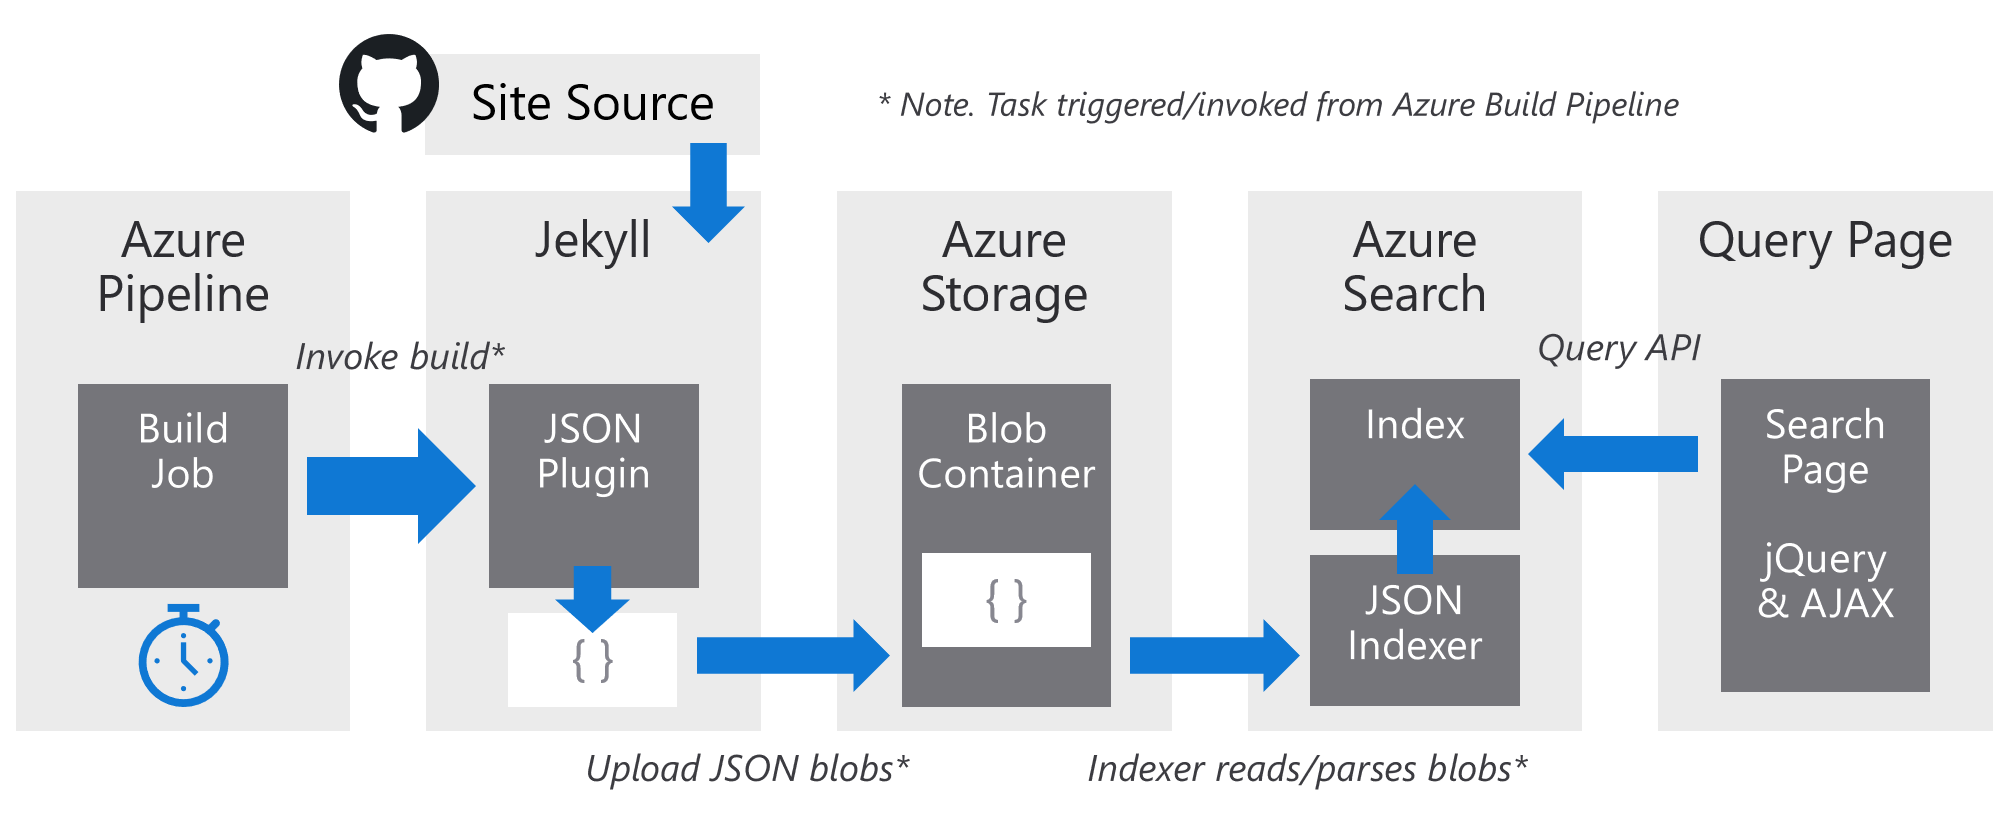
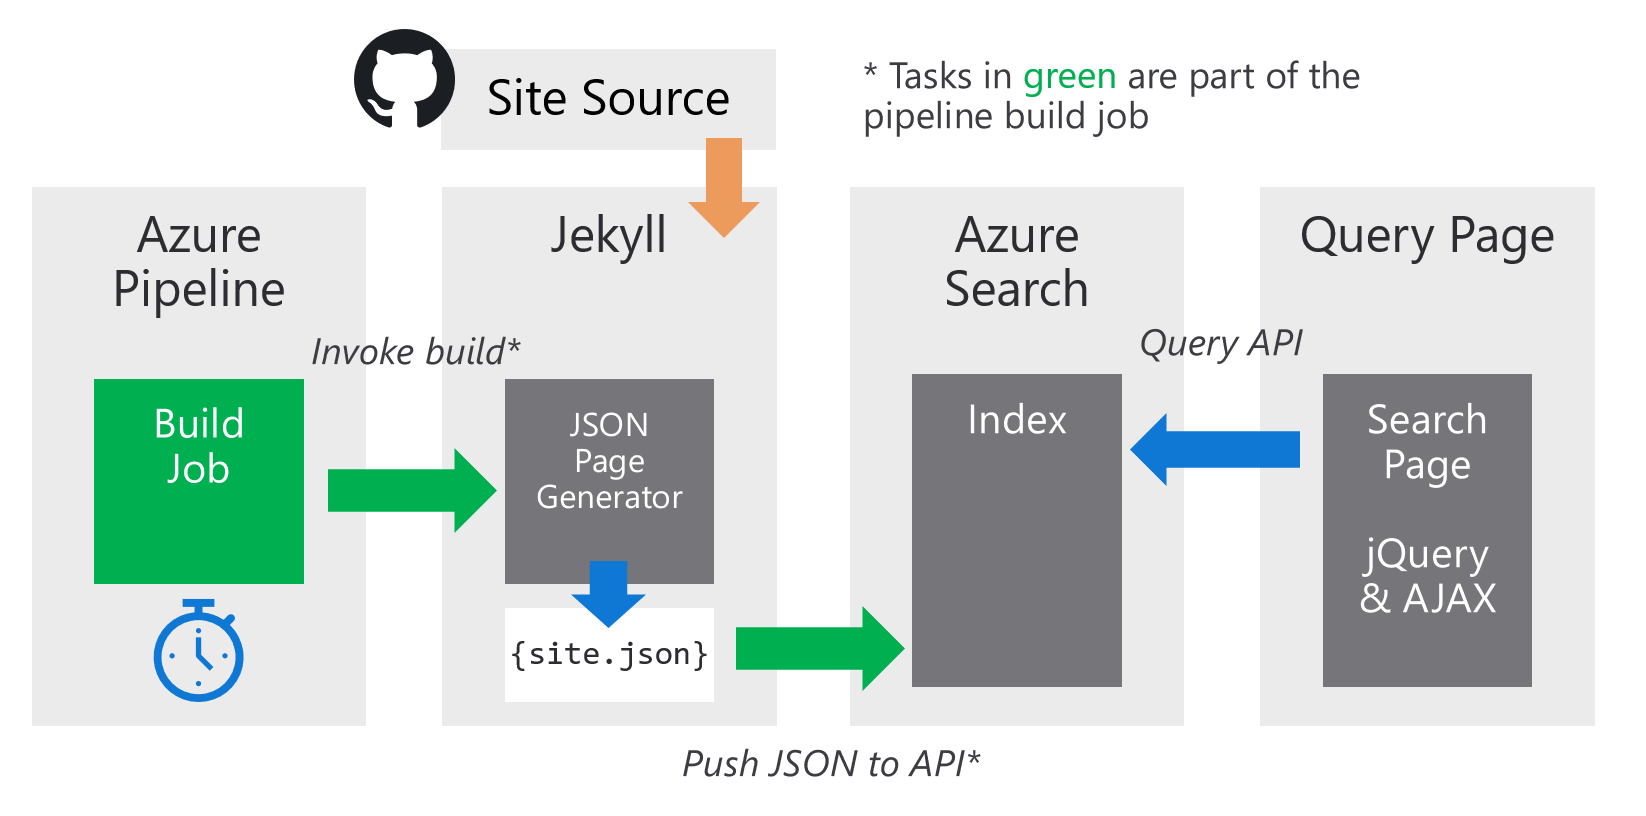
Updated search AGAIN!

diff --git a/data-ai/azure-search-integration.md b/data-ai/azure-search-integration.md
@@ -22,7 +22,6 @@ Using Azure Search with a static site like [Jekyll](https://jekyllrb.com/) prese
 The solution consists of five main elements:
 - Jekyll plugin which outputs JSON
 - Azure Pipeline for automation of re-indexing
-- Azure blob storage
 - Azure Search service
 - Search page 'client' written in jQuery & HTML5
 
@@ -32,77 +31,61 @@ The data flow and interaction between the components is as follows
 ![Overall solution flow](arch.png)
 
 
-# Jekyll JSON Plugin
-First part of the integration requires a way to output the site as JSON documents, so they can be read by Azure Search. The answer was to find a [Jekyll Generator plugin](https://jekyllrb.com/docs/plugins/generators/) that could output JSON. There were several code snippets of Jekyll plugins that would generate JSON, but most were out of date or simply didn't work. A close to working solution was [found here as a Gist](https://https://gist.github.com/egardner/b6bd5d785048ec2d0b2b). This required modification to work with pages rather than posts, to run on the correct subset of pages on the site and also output the JSON with specific fields
+# Site JSON Generation 
+A Liquid template page was created to output the site as a single JSON document, this page resides in `_pages/site.json` with a permalink set to `/site.json` so it outputs to the root of the site. It loops over all pages in the site when the Jekyll build is run. The resulting JSON object is an array of documents in a format ready for Azure Search index to consume. See [Azure Search documentation on the required format of the data](https://docs.microsoft.com/en-us/azure/search/search-import-data-rest-api#request-body)
 
-The core generate function looks as follows:
-```ruby
-def generate(site)
-  site.pages.each do |page|
-    # Set the path to the JSON version of the page
-    dest = site.config['destination']
+- The `id` field is created from the page URL (which is unique) and Base64 encoded to remove any strange characters
+- The other fields are taken from the page object directly
+- The content is placed in a field called `content_md`
+- `@search.action` field is an instruction to Azure Search
 
-    # Only work with our markdown content, not index pages and others
-    unless page.name.end_with? ".md"
-      next
-    end
-
-    # Munge the destination to .json
-    path = page.destination(dest)
-    path["#{dest}/"] = ''
-    path['/index.html'] = '.json'
-
-    # Convert the page to a hash
-    output = page.to_liquid
-
-    # Prepare the output for JSON conversion
-    ['dir', 'layout', 'path'].each do |key|
-      output.delete(key)
-    end
-
-    # Default field for content was 'content', this trips up Azure Search
-    # So put generated HTML in content_html and source Markdown in content_md
-    output['content_html'] = page.transform
-    output['content_md'] = output.delete('content')
-
-    # Queue up for generation
-    site.pages << JSONPage.new(site, site.source, File.dirname(path), File.basename(path), output.to_json)
-  end
-end
+The source of `_pages/site.json`
+```markdown
+---
+layout: null
+permalink: /site.json
+---
+{% assign content_pages = site.pages | where_exp: "p", "p.path contains '.md'" %}
+{ 
+  "value": [
+    {% for page in content_pages %}
+    {
+      "@search.action": "mergeOrUpload",
+      "id":      "{{ page.url | base64_encode }}",
+      "author":  "{{ page.author | join: ', ' }}",
+      "tags":    "{{ page.tags | join: ', ' }}",
+      "title":   "{{ page.title }}",
+      "teaser":  "{{ page.header.teaser }}",
+      "url":     "{{ page.url }}",
+      "excerpt": "{{ page.excerpt }}",
+      "date":    "{{ page.date | date: "%Y-%m-%d" }}",
+      "content_md": {{ page.content | jsonify }}
+    }{% if forloop.last %}{% else %},{% endif %}
+    {% endfor %}
+    ]
+}
 ```
 
-The [full source of the plugin is here on GitHub](https://github.com/azurecitadel/azurecitadel.github.io/blob/master/_plugins/json-generate.rb). This is placed as a single Ruby file into the sites `_plugins` directory
+Here's an example of one element (page) in the array
 
-This plugin is invoked when running a build of the site e.g. `bundle exec jekyll build` and results in `index.json` files being created alongside each of the `index.html` pages. In normal site operation & deployment (e.g. hosting on GitHub pages) these JSON files do nothing and are ignored. However we can build the site and upload the JSON ourselves in a custom build pipeline
-
-An example of the JSON version of a page, the HTML and markdown have been removed to save space:
 ```json
-{
-  "comments": true,
-  "share": true,
-  "toc": true,
-  "header": {
-    "teaser": "/images/teaser/blueprint.png"
-  },
-  "title": "A Very Interesting Thing",
-  "date": "2018-12-21",
-  "category": "stuff",
-  "author": "Ben Coleman",
-  "tags": [
-    "blah",
-    "thing"
-  ],
-  "excerpt": "Some words here explaining about this interesting thing",
-  "name": "example.md",
-  "url": "/stuff/example/",
-  "content_html": "<< HTML GENERATED CONTENT HERE AS A SINGLE LARGE STRING >>",
-  "content_md": "<< SOURCE MARKDOWN HERE AS A SINGLE LARGE STRING >>"
-}
+    {
+      "@search.action": "mergeOrUpload",
+      "id":      "L2F1dG9tYXRpb24vdGVycmFmb3JtL1RlcnJhZm9ybUVudGVycHJpc2Uv",
+      "author":  "Fred Blogs",
+      "tags":    "tag1, tag2",
+      "title":   "Just An Example",
+      "teaser":  "images/teaser/example.png",
+      "url":     "/stuff/example/",
+      "excerpt": "Short overview of a very boring thing that doesn't exist",
+      "date":    "2018-10-29",
+      "content_md": "<< REMOVED >>"
+    },
 ```
 
 
 # Azure Pipelines - Build & Re-index
-Although Azure Search can regularly run a scheduled re-index scan of its source data, in our case JSON blobs, we still need some process or automation for updating that source data. Azure Pipelines was used for this as it has the ability to run the Jekyll build tasks and is flexible enough to automate the other steps we need.
+To keep the index up to date and fresh, some sort of scheduled automation process was required. Azure Pipelines was used for this as it has the ability to run the Jekyll build tasks and is flexible enough to automate the other steps we need.
 
 The automation was done as a single 'Build Pipeline' in Azure Pipelines. The pipeline was defined in YAML and is shown below
 
@@ -129,20 +112,16 @@ steps:
 - script: 'bundle exec jekyll build'
   displayName: 'Run jekyll and build site'
 
-- script: 'az storage blob upload-batch -s _site -d site-json  --pattern "*.json" --account-name=$(storage-acct-name) --account-key="$(storage-acct-key)" --no-progress'
-  displayName: 'Upload JSON output to blobs for indexing'
-
-- script: 'curl -v -H "api-key: $(search-admin-key)" -d "" -X POST "https://$(search-account).search.windows.net/indexers/$(search-indexer)/run?api-version=2017-11-11"'
-  displayName: 'Call Azure Search API to run reindex'
+- script: 'curl -v -H "api-key: $(search-admin-key)" -H "Content-Type: application/json" --data-binary "@_site/site.json" -X POST "https://$(search-account).search.windows.net/indexes/$(search-index)/docs/index?api-version=2017-11-11"'
+  displayName: 'Push site.json to Azure Search'
 ```
 
 A summary of pipeline:
 - Environmental setup (Ruby and bundler)
 - Run `bundle exec jekyll build` to build the site, to default output directory `_site`
-- Use Azure CLI `az storage blob upload-batch` command to upload output JSON from `_site` to a storage account into a blob container called `site-json`
-- Call on the Azure Search indexer to run a re-index, using the Azure Search REST API (using curl)
+- Using curl, call the Azure Search REST API and push our JSON results (site.json) as a single POST
 
-Secrets and other variables are held in Azure Pipelines as a variable group called `citadel-shared-vars`. This variable group was created and pre-populated using the Azure DevOps Portal, so that no secrets or other variable settings needed to be hardcoded into the pipeline. Secrets include `$(storage-acct-key)` and `$(search-admin-key)`
+Secrets and other variables are held in Azure Pipelines as a variable group called `citadel-shared-vars`. This variable group was created and pre-populated using the Azure DevOps Portal, so that no secrets or other variable settings needed to be hardcoded into the pipeline.
 
 The pipeline runs on a schedule every 24 hours (and not not on repo pushes/commits as many build pipelines would) and the definition YAML stored in the Git repo that contains the site
 
@@ -158,67 +137,15 @@ To assist using the API with Postman, the following can be used:
 
 Simply import into Postman and configure the variables in 'Azure Search' environment
 
-There are three main parts that require configuration and creation: **data source**, **indexer** and the **index**
-
-## Azure Search - Data Source
-This was pointed the Azure Storage account using a connection string, and the blob container named `site-json` used (same as the configuration of the 'Upload JSON' pipeline task)
-
-Example data source JSON:
-```json
-{
-	"name": "citadel-site-json",
-	"type": "azureblob",
-	"credentials": {
-	    "connectionString": "<< YOUR CONNECTION STRING HERE >>"
-	},
-	"container": {
-	    "name": "site-json"
-	}
-}
-```
-
-## Azure Search - Indexer
-The indexer was set up to read from the above data source, the indexer runs in JSON parsing mode with both content and metadata extracted.
-
-The indexer also maps the `url` field to the `id` to use as a key and Base64 encodes it for safety.
-
-Scheduling was disabled as the re-index is invoked regularly from the pipeline. As there were are some JSON files contained in the site source these get uploaded with the upload step and currently there's no simple way to filter them out. To get around this, the `maxFailedItems` value was simply increased to allow the indexer to skip over any JSON docs it finds which aren't in the correct format.
-
-Example indexer JSON:
-```json
-{
-  "name": "citadel-indexer",
-  "dataSourceName": "citadel-site-json",
-  "targetIndexName": "citadel-index",
-  "parameters": {
-    "maxFailedItems": 20,
-    "maxFailedItemsPerBatch": 20,
-    "base64EncodeKeys": true,
-    "configuration": {
-      "dataToExtract": "contentAndMetadata",
-      "parsingMode": "json"
-    }
-  },
-  "fieldMappings": [
-    {
-      "sourceFieldName": "url",
-      "targetFieldName": "id"
-    },
-    {
-      "sourceFieldName": "url",
-      "targetFieldName": "url"
-    }        
-  ]
-}
-```
+As we call the API directly with the documents to index, we are bypassing certain features of Azure Search such as **data source** and **indexer**, all that is required to be configured is an **index**
 
 ## Azure Search - Index
-The majority of the Azure Search configuration is done on the index, this determines which fields will be extracted out of the JSON and how they are used.
+The Azure Search index determines which fields will be searchable and returned when querying, and holds the actual data (at least in index form)
 
-By default the JSON indexer will put all of the JSON parsed into a huge field called `content`, this isn't a optimal way of using the data we have, so a more refined configuration was used: 
-- Custom `id` field used as a key, which is mapped to a Base64 encoded version of the `url` field
-- Main searchable fields are `content_md`, `title` and `excerpt`
-- Other fields marked as retrievable are: `url`, `date`, `author` and `header`
+Notes on index fields:
+- Custom `id` field used as a key, created by the `site.json` generation template page
+- Main searchable fields are `content_md`, `title`, `tags` and `excerpt`
+- Other fields marked as retrievable are: `url`, `date`, `author` and `teaser`
 - All fields are strings
 
 If you refer back to the example JSON document you will notice the `header` field is in fact not a string but an object with nested fields inside it. As we fetch it as a string, this means we get a small chunk of serialized JSON inside it, however we can easily handle this on the client
@@ -226,28 +153,34 @@ If you refer back to the example JSON document you will notice the `header` fiel
 Example index JSON:
 ```json
 {  
-  "name": "citadel-index",  
+  "name": "citadel-index",
   "fields": [  
     {  
-      "name": "id",  
+      "name": "id",
       "key": true,
       "retrievable": true,
       "type": "Edm.String"
     },
     {  
-      "name": "content_md",  
+      "name": "content_md",
       "retrievable": false,
       "searchable": true,
       "type": "Edm.String"      
     },
     {  
-      "name": "title",  
+      "name": "title",
       "retrievable": true,
       "searchable": true,
       "type": "Edm.String"      
     },
     {  
-      "name": "excerpt",  
+      "name": "tags",
+      "retrievable": true,
+      "searchable": true,
+      "type": "Edm.String"      
+    },  
+    {  
+      "name": "excerpt",
       "retrievable": true,
       "searchable": true,
       "type": "Edm.String"        
@@ -259,19 +192,19 @@ Example index JSON:
       "type": "Edm.String"        
     },
     {  
-      "name": "author",  
+      "name": "author",
       "retrievable": true,
       "searchable": false,
       "type": "Edm.String"        
-    },  
+    },
     {  
-      "name": "date",  
+      "name": "date",
       "retrievable": true,
       "searchable": false,
       "type": "Edm.String"        
     }, 
     {  
-      "name": "header",  
+      "name": "teaser",
       "retrievable": true,
       "searchable": false,
       "type": "Edm.String"        
